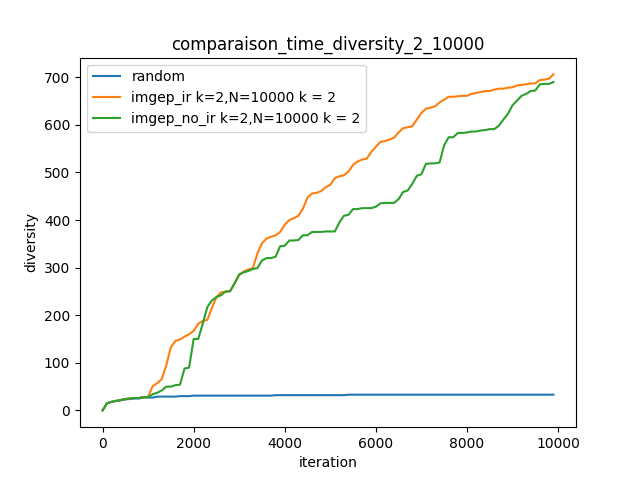
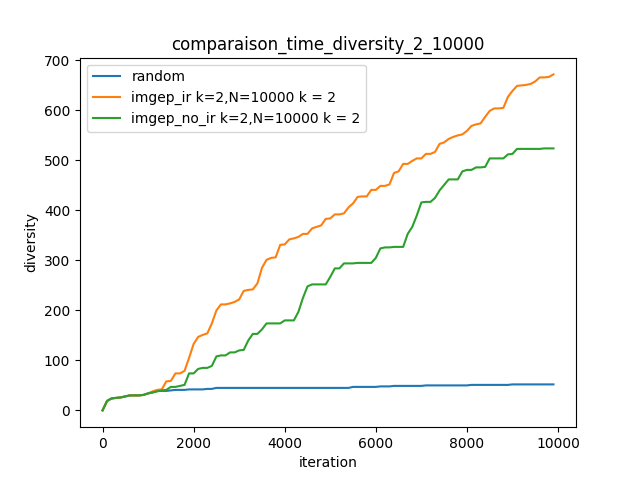
update

diff --git a/exploration/imgep/OptimizationPolicy.py b/exploration/imgep/OptimizationPolicy.py
@@ -13,19 +13,26 @@ class OptimizationPolicykNN(Features):
                 mutation_rate = 0.1,
                 max_len=50,
                 num_addr = 20,
-                num_bank = 4):
+                num_bank = 4,
+                min_instr = 5,
+                max_instr = 50):
         super().__init__()
         self.k = k
         self.mutation_rate = mutation_rate
         self.max_len = max_len
         self.num_bank = num_bank #this attribute is used by Features
         self.num_addr = num_addr
+        self.min_instr = min_instr
+        self.max_instr = max_instr
+
     def __call__(self,goal:np.ndarray,H:History, module:str)->dict:
         closest_codes = self.select_closest_codes(H,goal, module) #most promising sample from the history
         output = self.mix(closest_codes) #expansion strategie: small random mutation
         return output
     def mix(self,programs):
-        mix0, mix1 = mix_instruction_lists(programs["program"]["core0"],self.max_len), mix_instruction_lists(programs["program"]["core1"],self.max_len)
+        #mix0, mix1 = mix_instruction_lists(programs["program"]["core0"],self.max_len), mix_instruction_lists(programs["program"]["core1"],self.max_len)
+        ll = np.random.randint(5,self.max_len)
+        mix0, mix1 = mix_instruction_lists(programs["program"]["core0"],ll), mix_instruction_lists(programs["program"]["core1"],ll)
         output = self.light_code_mutation({"core0":mix0[:self.max_len],"core1":mix1[:self.max_len]}) #expansion strategie: small random mutation
         return output 
     def loss(self,goal:np.ndarray, elements:np.ndarray):
@@ -54,5 +61,10 @@ class OptimizationPolicykNN(Features):
             output["program"]["core1"].append(H.memory_program["core1"][id_])
         return output
     def light_code_mutation(self,programs:dict[list[dict]]):
-        mutated0, mutated1 = mutate_paire_instructions(programs["core0"], programs["core1"],mutation_rate = self.mutation_rate,num_addr=self.num_addr)
+        mutated0, mutated1 = mutate_paire_instructions(programs["core0"],
+                                                       programs["core1"],
+                                                       mutation_rate = self.mutation_rate,
+                                                       num_addr=self.num_addr,
+                                                       min_instr=self.min_instr,
+                                                       max_instr=self.max_instr)
         return {"core0":[mutated0[:self.max_len]],"core1":[mutated1[:self.max_len]]}

diff --git a/exploration/imgep/mutation.py b/exploration/imgep/mutation.py
@@ -4,12 +4,20 @@ import copy
 import copy
 from typing import List, Dict, Any
 
-def mutate_paire_instructions(instructions1:list[dict], instructions2:list[dict], mutation_rate=.3,num_addr=20)->(dict,dict):
-    return mutate_instructions(instructions1, mutation_rate=mutation_rate),mutate_instructions(instructions2, mutation_rate=mutation_rate, num_addr=num_addr)
+def mutate_paire_instructions(instructions1:list[dict],
+                              instructions2:list[dict],
+                              mutation_rate=.3,
+                              num_addr=20,
+                              min_instr:int=5,
+                              max_instr:int=50
+                              )->(dict,dict):
+    return mutate_instructions(instructions1, mutation_rate=mutation_rate,num_addr=num_addr,min_instr=min_instr),mutate_instructions(instructions2, mutation_rate=mutation_rate, num_addr=num_addr,min_instr=min_instr,max_instr=max_instr)
 
 def mutate_instructions(instructions:list[dict],
                         mutation_rate:float=0.3,
-                        num_addr:int=20):
+                        num_addr:int=20,
+                        min_instr:int=5,
+                        max_instr:int=50):
     """
     Randomly mutate a list of instructions by:
     1. Changing existing instructions
@@ -32,8 +40,12 @@ def mutate_instructions(instructions:list[dict],
     num_mutations = max(0, int(len(mutated) * mutation_rate))
     
     for _ in range(num_mutations):
-        mutation_type = random.choice(['change','delete', 'add'])
-        
+        choices = ['change']
+        #if len(mutated)>min_instr:
+        #    choices.append('delete')
+        #if len(mutated)<=max_instr:
+        #    choices.append('add')
+        mutation_type = random.choice(choices)
         if mutation_type == 'change' and len(mutated) > 0:
             idx = random.randint(0, len(mutated) - 1)
             instr = mutated[idx]

diff --git a/exploration/imgep/intrinsic_reward.py b/exploration/imgep/intrinsic_reward.py
@@ -47,7 +47,7 @@ class IR:
             else:
                 module["progress"] = np.abs(module["diversity"][-1] - module["diversity"][0])/np.abs(module["diversity"][0])
     def prob(self)->dict:
-        self.progress()
+        #self.progress()
         sum_ = 0
         probs = []
         #constant to normalize: sum of all progress accross all modules
@@ -77,7 +77,7 @@ class IR:
                 vec[np.random.randint(0,len(self.modules))] = 1.0
             probs = (1-C)*np.array(probs)+ C*vec
         return self.modules[int(np.random.choice(len(self.modules), 1, p=probs))]
-    def __call__(self):
+    def __call__(self,N:int):
         """
         Evaluates progress made by exploring each module
         """
@@ -86,8 +86,10 @@ class IR:
                 self.eval_module_diversity(module_)
             goal = self.goal_module(self.history,module)
             for j in range(self.num_iteration):
-                parameter = self.Pi(goal,self.history,module)
-                self.history.store({"program":parameter}|self.env(parameter))
+                if len(self.history.memory_program["core0"])<N+1:
+                    parameter = self.Pi(goal,self.history,module)
+                    self.history.store({"program":parameter}|self.env(parameter))
+                    print("len",len(self.history.memory_program["core0"]))
             for module_ in self.modules:
                 self.eval_module_diversity(module_)
             self.progress()
@@ -119,8 +121,7 @@ class IR:
             hist2,_,_ = np.histogram2d(feature[1,:],feature[3,:], bins=[bins, bins])
             div = np.sum(hist1>0) + np.sum(hist2>0)
         else:
-            print(f"module {module} not known")
-            exit()
+            TypeError(f"module {module} not known")
 
         #Stores the result
         if "diversity" in module.keys():

diff --git a/visu2.py b/visu2.py
@@ -132,8 +132,8 @@ def comparaison_ratios_iterations(contents:list[tuple], name = None,k = None):
         for row in range(2):
             for label, content in contents:
                 ll = len(content["miss_ratios_core0_detailled"])
-                diversity_ratio = [diversity([content["miss_ratios_core0_detailled"][:k,row,j],  content["miss_ratios_detailled"][:k,row,j]], [bins, bins]) for k in range(0,ll,100)]
-                axs[j+row*4].plot(range(0,ll,100),diversity_ratio, label=label)
+                diversity_ratio = [diversity([content["miss_ratios_core0_detailled"][:k,row,j],  content["miss_ratios_detailled"][:k,row,j]], [bins, bins]) for k in range(0,ll+1,100)]
+                axs[j+row*4].plot(range(0,ll+1,100),diversity_ratio, label=label)
                 axs[j+row*4].set_xlabel("iteration",fontsize=18)
                 axs[j+row*4].set_ylabel("diversity",fontsize=18)
                 axs[j+row*4].legend()
@@ -150,10 +150,10 @@ def comparaison_ratios_global_iterations(list_args:list[tuple], name = None,k = 
         ll = len(content["miss_ratios_global0"])
         print("together",len(content["miss_ratios_global0"]))
         print("0 alone",len(content["miss_ratios_global"]))
-        diversity_ratio = [diversity([content["miss_ratios_global0"][:k],  content["miss_ratios_global"][:k]], [bins, bins]) for k in range(0,ll,100)]
+        diversity_ratio = [diversity([content["miss_ratios_global0"][:k],  content["miss_ratios_global"][:k]], [bins, bins]) for k in range(0,ll+1,100)]
         #print("k", k)
         print("name", name)
-        plt.plot(range(0,ll,100),diversity_ratio, label=label)
+        plt.plot(range(0,ll+1,100),diversity_ratio, label=label)
         plt.xlabel("iteration",fontsize=18)
         plt.ylabel("diversity",fontsize=18)
         plt.legend()

diff --git a/test.py b/test.py
@@ -25,6 +25,7 @@ if __name__=="__main__":
     N_init = config["N_init"]
     num_bank = config["num_bank"]
     max_len = config["max_len"]
+    min_len = config["min_len"]
     folder = config["folder"]
     num_addr = config["num_addr"]
     num_iteration = config["num_iteration"]
@@ -54,7 +55,7 @@ if __name__=="__main__":
         for k in ks:
             print(f"start: k = {k}, N={N}, intrinsic reward = {intr_reward}")
             G = GoalGenerator(num_bank = num_bank,modules = modules)
-            Pi = OptimizationPolicykNN(k=k,mutation_rate=mutation_rate,max_len=max_len,num_addr=num_addr,num_bank=num_bank)
+            Pi = OptimizationPolicykNN(k=k,mutation_rate=mutation_rate,max_len=max_len,num_addr=num_addr,num_bank=num_bank,min_instr=min_len,max_instr=max_len)
             H_imgep = History(max_size=N)
             ir = IR(En,modules,H_imgep, G,Pi,num_iteration,window = 5)
             imgep = IMGEP(N,N_init, En,H_imgep,G,Pi,ir, modules = modules, periode = periode, max_len = max_len)

diff --git a/configuration.py b/configuration.py
@@ -2,14 +2,15 @@ import json
 import numpy as np
 if __name__ == "__main__":
     num_addr = 20
-    N = int(10000)
-    N_init = 1000
+    N = int(1000)
+    N_init = 100
     max_len = 50
-    periode = 50
+    periode = 5
     num_bank = 4
     mutation_rate = .1
     num_iteration = 5 #has to be small compared to N
     #modules =   ["time"]
+    min_instr = 5
     modules = [{"type":"time_vector","bins":list(np.linspace(0,1000,21))}]
     modules +=   [{"type":"miss_bank","bank":j,"bins":list(np.linspace(0,1,21))} for j in range(num_bank)]
     modules +=  [{"type":"diff_ratios_bank","bank":j,"bins":list(np.linspace(0,1,21))} for j in range(num_bank)]
@@ -30,6 +31,7 @@ if __name__ == "__main__":
               "periode":periode,
               "mutation_rate":mutation_rate,
               "max_len":max_len,
+              "min_len":min_instr,
               "num_addr":num_addr,
               "num_bank":num_bank,
               "folder":folder,

diff --git a/exploration/imgep/imgep.py b/exploration/imgep/imgep.py
@@ -46,8 +46,8 @@ class IMGEP:
         intr_reward:bool. If True, the exploration uses intrinsic reward based on diversity
         """
         time_explor = 0
-        for i in range(self.start,self.N):
-            if i%1000==0:
+        for i in range(self.start,self.N+1):
+            if i%100==0:
                 print(f"{i} iterations")
             if i<time_explor:
                 continue
@@ -57,7 +57,7 @@ class IMGEP:
                 if intr_reward:
                     #Sample target goal
                     if (i-self.N_init)%(self.periode_expl*self.periode)==0:
-                        self.ir()
+                        self.ir(self.N)
                         time_explor = i + self.ir.num_iteration*len(self.ir.modules)
                         print("time explor", time_explor)
                         module = self.ir.choice()

diff --git a/sim/sim_use.py b/sim/sim_use.py
@@ -122,7 +122,8 @@ def make_random_list_instr(length = 5, core = "0",num_addr = 20):
 def make_random_paire_list_instr(max_len,num_addr=20)->dict:
     #assert type(length) == int
     length = np.random.randint(5,max_len)
-    length2 = np.random.randint(5,max_len)
+    #length2 = np.random.randint(5,max_len)
+    length2 = length
     instructions0 = make_random_list_instr(length=length, core=0, num_addr = num_addr)
     instructions1 = make_random_list_instr(length=length2, core=1, num_addr = num_addr)
     return  {"core0": [instructions0],"core1":[instructions1]}

diff --git a/visu_configuration.py b/visu_configuration.py
@@ -2,11 +2,10 @@ import json
 if __name__ == "__main__":
     folder = ["all_data/data_short","all_data/data_short","all_data/data_weak"]
     folder1module = "all_data/data_1module"
-    image_folder ="all_images/image_short"
-    test_mode = False
-    N = int(10000)
-    N_init = 1000
-    ks = [2,3]
+    image_folder ="all_images/image_test"
+    N = int(1000)
+    N_init = 100
+    ks = [2]
     num_bank = 4
     num_addr = 20
     file_mix = lambda k,N: f"history_weak_{k}_N_{N}_0.pkl"

diff --git a/exploration/imgep/features.py b/exploration/imgep/features.py
@@ -83,6 +83,5 @@ class Features:
                                np.array(stats["miss_ratios_global1"])))
 
         else:
-            print(f"module {module} unknown")
-            exit()
+            TypeError(f"module {module} unknown")
         return np.array(out)
